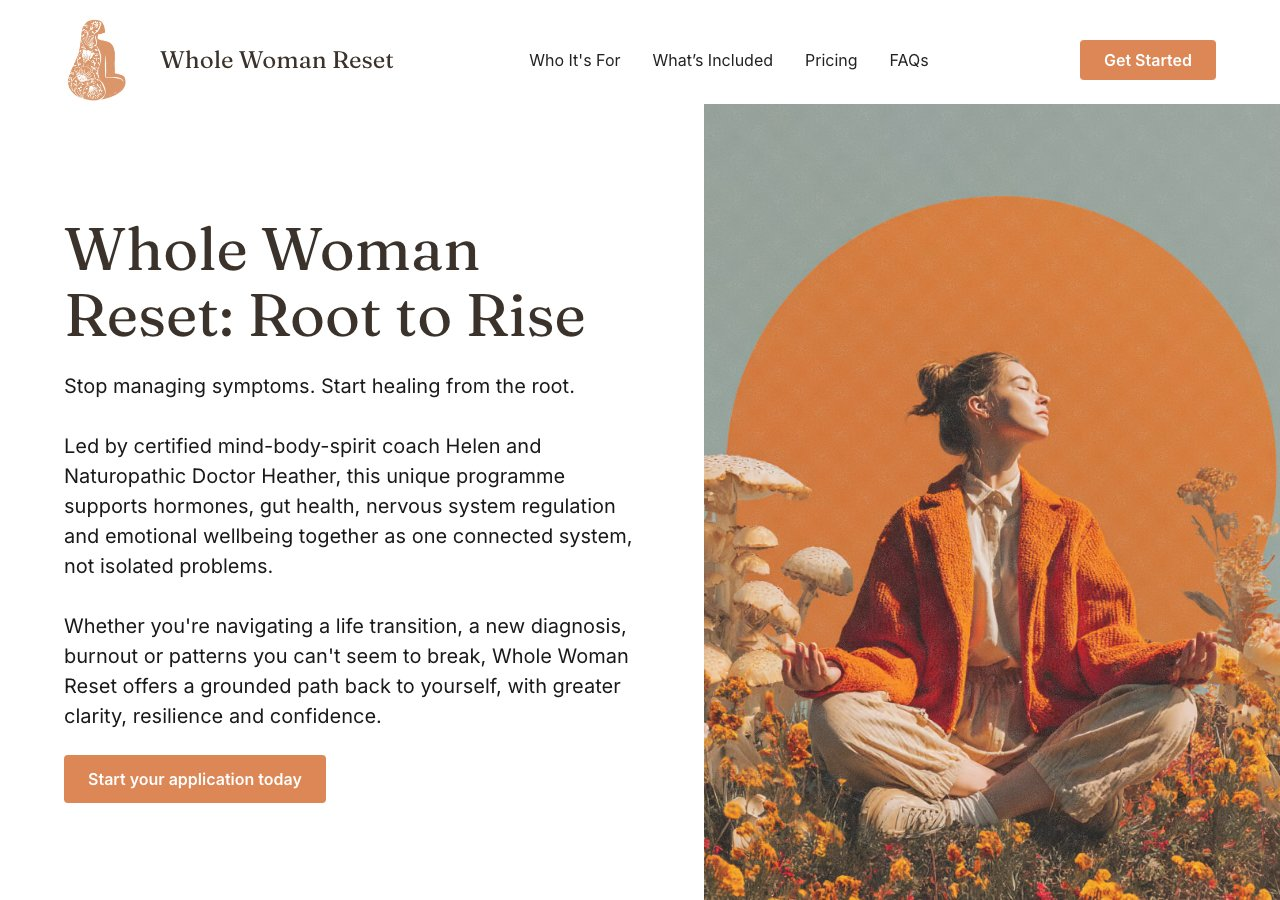
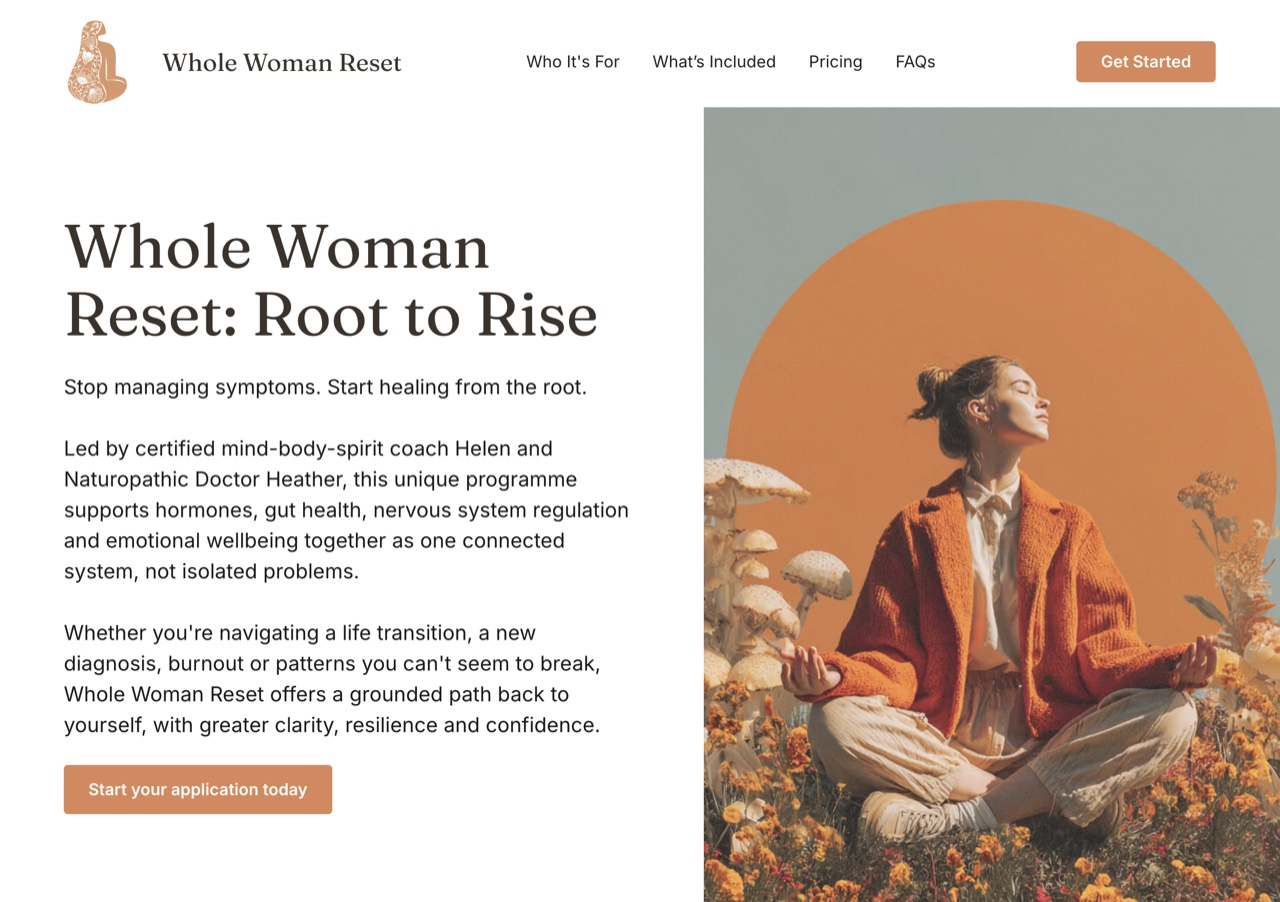
Simplify portfolio to 2 case studies + add handoff doc
- work.html: remove fictional Roots Wellness case study
- Village Naturopathy: real screenshot + updated copy (virtual women's health, Ontario + UK)
- Whole Woman Reset: re-compressed screenshot from full desktop view (268KB)
- Add goodwebsites_handoff_2026-07-09.md: session context, backlog, Summerhill rebuild plan

diff --git a/work.html b/work.html
@@ -86,63 +86,27 @@
           <!-- 1: Village Naturopathy -->
           <article class="case-study reveal">
             <div class="case-study-media">
-              <div class="case-study-placeholder" style="background:var(--surface-sun)">
-                <span style="font-size:var(--text-hero-md)">Village<br>Naturopathy</span>
-                <span class="badge badge--ink">Screenshot coming</span>
-              </div>
-            </div>
-            <div class="case-study-body">
-              <div style="display:flex;gap:var(--space-2);flex-wrap:wrap">
-                <span class="badge badge--ink">Authority Site</span>
-                <span class="badge badge--grass">50+ pages</span>
-              </div>
-              <h2 class="case-study-title">Village Naturopathy</h2>
-              <p class="case-study-desc">Dr. Sarah Chen came to us with a generic Squarespace site that wasn't ranking for anything. We rebuilt from scratch — 50 pages, condition landing pages for every service, embedded Jane booking, and a content strategy built for AI citation.</p>
-              <div class="case-study-stats">
-                <div class="case-study-stat">
-                  <span class="case-study-stat-value">3</span>
-                  <span class="case-study-stat-label">New patients<br>week one</span>
-                </div>
-                <div class="case-study-stat">
-                  <span class="case-study-stat-value">#1</span>
-                  <span class="case-study-stat-label">"Naturopath<br>Toronto" Google</span>
-                </div>
-                <div class="case-study-stat">
-                  <span class="case-study-stat-value">98</span>
-                  <span class="case-study-stat-label">PageSpeed<br>score</span>
-                </div>
-              </div>
-              <a class="btn btn--primary" href="book.html">Build something like this <span class="arrow">&rarr;</span></a>
-            </div>
-          </article>
-
-          <!-- 2: Roots Wellness -->
-          <article class="case-study case-study--reversed reveal">
-            <div class="case-study-media">
-              <div class="case-study-placeholder" style="background:rgba(255,90,54,0.12)">
-                <span style="font-size:var(--text-hero-md)">Roots<br>Wellness</span>
-                <span class="badge badge--coral">Screenshot coming</span>
-              </div>
+              <img src="assets/images/screenshot-village.jpg" alt="Village Naturopathy website — practice site design by Good Websites" loading="lazy" style="width:100%;height:100%;object-fit:cover;border-radius:var(--radius-md)">
             </div>
             <div class="case-study-body">
               <div style="display:flex;gap:var(--space-2);flex-wrap:wrap">
                 <span class="badge badge--ink">Practice Site</span>
-                <span class="badge badge--sky">7 pages</span>
+                <span class="badge badge--coral">Design + Dev</span>
               </div>
-              <h2 class="case-study-title">Roots Wellness</h2>
-              <p class="case-study-desc">Dr. James Park had been in practice for three years with a schedule that was never full. We built a 7-page practice site focused on local SEO, set up his Google Business profile, and wired Jane App directly into the booking flow.</p>
+              <h2 class="case-study-title">Village Naturopathy</h2>
+              <p class="case-study-desc">A virtual women's health clinic serving Ontario and the UK needed a site that matched the quality of their care. We built a custom practice site from scratch — sharp brand expression, clear service pages, and a booking flow built around the way patients actually decide.</p>
               <div class="case-study-stats">
                 <div class="case-study-stat">
-                  <span class="case-study-stat-value">Full</span>
-                  <span class="case-study-stat-label">Schedule in<br>3 months</span>
+                  <span class="case-study-stat-value">Custom</span>
+                  <span class="case-study-stat-label">No templates,<br>no page builders</span>
                 </div>
                 <div class="case-study-stat">
-                  <span class="case-study-stat-value">4×</span>
-                  <span class="case-study-stat-label">Increase in<br>online bookings</span>
-                </div>
-                <div class="case-study-stat">
-                  <span class="case-study-stat-value">96</span>
+                  <span class="case-study-stat-value">95+</span>
                   <span class="case-study-stat-label">PageSpeed<br>score</span>
+                </div>
+                <div class="case-study-stat">
+                  <span class="case-study-stat-value">Virtual</span>
+                  <span class="case-study-stat-label">Ontario<br>+ UK</span>
                 </div>
               </div>
               <a class="btn btn--primary" href="book.html">Build something like this <span class="arrow">&rarr;</span></a>
@@ -175,10 +139,7 @@
                   <span class="case-study-stat-label">wholewomanreset<br>.co.uk</span>
                 </div>
               </div>
-              <div style="display:flex;gap:var(--space-3);flex-wrap:wrap;align-items:center">
-                <a class="btn btn--primary" href="book.html">Build something like this <span class="arrow">&rarr;</span></a>
-                <a class="btn btn--ghost" href="https://wholewomanreset.co.uk/" target="_blank" rel="noopener">Visit site <span class="arrow">&rarr;</span></a>
-              </div>
+              <a class="btn btn--primary" href="book.html">Build something like this <span class="arrow">&rarr;</span></a>
             </div>
           </article>
 

diff --git a/goodwebsites_handoff_2026-07-09.md b/goodwebsites_handoff_2026-07-09.md
@@ -1,0 +1,129 @@
+# Good Websites — Handoff Doc
+**Date:** 2026-07-09  
+**Project:** goodwebsites.ca  
+**Repo:** github.com/b9will/goodwebsitesca (private)  
+**Live:** Cloudflare Pages, auto-deploys from `main` branch  
+**Local dev:** `python3 -m http.server 8812` → http://localhost:8812/
+
+---
+
+## What's Live and Shipped
+
+| Page | Status | Notes |
+|------|--------|-------|
+| index.html | ✅ Live | Hero doodles fixed (hero-balloon.webp, hero-flower.webp in assets/images/) |
+| work.html | ✅ Live | 2 case studies: Village Naturopathy + Whole Woman Reset |
+| about.html | ✅ Live | Will's AVIF headshot (Clear Space), Rylan's photo, emoji polaroids, rounded corners |
+| pricing.html | ✅ Live | 3 tiers |
+| book.html | ✅ Live | Booking flow |
+| /oand/ | ✅ Live | 13-slide partner deck for OAND, noindex, Good Websites branding, 15%/+15% discount |
+| blog/ | ✅ Live | Exists |
+| signup.html | ✅ Live | Stripe Buy Buttons (not yet verified per plan) |
+
+### Cloudflare Pages config
+- Build command: (blank)
+- Output dir: `/`
+- Functions dir: `functions/` (auto-detected)
+- Secrets set in Cloudflare dashboard: `ANTHROPIC_API_KEY`, `RESEND_API_KEY`
+
+---
+
+## work.html — Current State
+
+Two case studies, both using real screenshots, no external "Visit site" links:
+
+1. **Village Naturopathy** — spec/design concept, virtual women's health clinic (Ontario + UK)
+   - Screenshot: `assets/images/screenshot-village.jpg` (216KB)
+   - Source PNG (dropped by Will): `village_hero.png` in project root — safe to delete
+
+2. **Whole Woman Reset** — real client (UK women's wellness programme)
+   - Screenshot: `assets/images/screenshot-wholewomanreset.jpg` (268KB, re-compressed from wholewomanreset.png)
+   - Source PNG (dropped by Will): `wholewomanreset.png` in project root — safe to delete
+   - Live site: wholewomanreset.co.uk (not linked from portfolio)
+
+### Dropped screenshots NOT yet used (in project root — safe to delete or archive)
+- `margotscreenshot.png` — Dr. Margot ND (doctormargotnd.com), hormone ND, Junction/Bloor West Village
+- `michellehero.png` — Michelle McKee ND (drmichellemckeend.com), Bracebridge
+- `vistaswellness.png` — Vistas Wellness, therapy practice, Toronto/Ottawa (client modified after delivery)
+
+These were considered for an "Experience" section but deferred. They're B9 Digital past work, not yet attributed on the Good Websites portfolio.
+
+---
+
+## Next Big Project: Summerhill Naturopathic Rebuild
+
+**Goal:** Rebuild summerhillnaturopathic.com using the ditto.sites clone as source content. Modernize the design with Good Websites standards. Makes a strong "before/after" case study for the work.html growth section.
+
+### Source material (already cloned)
+```
+~/Downloads/ditto.site/runs/summerhillnaturopathic.com/20260707-145834/
+  source/screenshots/
+    375.png   (731 KB)  — mobile view of current site
+    768.png   (894 KB)  — tablet
+    1280.png  (1.5 MB)  — desktop (use as "before" screenshot)
+    1920.png  (1.7 MB)  — wide desktop
+  source/assets-store/  — cloned images
+  generated/app/public/assets/cloned/images/  — processed images
+```
+
+### How to start (next session)
+1. `ls ~/Downloads/ditto.site/runs/summerhillnaturopathic.com/20260707-145834/source/` to explore content
+2. Look at the generated HTML in `generated/` for scraped text/structure
+3. New project dir: `~/Good Website Builds/SummerhillNaturopathic/`
+4. Copy `css/tokens.css` from GoodWebsitesca as design foundation
+5. Build page by page: home → services → about → contact
+6. Before/after on work.html once live (could be Cloudflare Pages subdomain or client's own domain)
+
+### Design direction
+- Keep their brand (teal/nature palette, naturopathic identity)
+- Upgrade: custom fonts (Excon/Ranade or similar), proper section hierarchy, Jane App booking
+- PageSpeed target: 95+
+- Mobile-first, semantic HTML
+
+---
+
+## Remaining Backlog (not yet started)
+
+### Intake automation (Phase 1 — welcome + wizard)
+- Replace Stripe Buy Buttons on `signup.html` with Payment Links (redirect to `/welcome.html?session_id=...`)
+- New `welcome.html` — "You're in. Here's what happens next."
+- New `/intake/` wizard — 10 sections, localStorage autosave → POST to `functions/api/intake/complete.js` → email to [email redacted]
+- Pattern already exists: see `functions/api/chat.js` for the email/Resend pattern
+
+### Stripe
+- Create `OAND15` coupon (15% off recurring) in Stripe dashboard
+- Enable promo codes on Payment Links (not Buy Buttons — requires Payment Links)
+- Map which Stripe link = which plan (TODO comments still in signup.html)
+
+### Resend domain verification
+- Currently sandbox only — can only send to [email redacted]
+- Verify goodwebsites.ca domain in Resend dashboard to unlock client-facing email
+- Required before intake wizard can email clients their confirmation
+
+### CONO compliance
+- Review current CONO advertising rules for testimonials before adding patient-results copy
+
+---
+
+## Design System Quick Reference
+
+**Fonts:** Excon (display/headings), Ranade (body) — from api.fontshare.com  
+**Local font files:** `assets/fonts/Excon-Medium.woff2`, `Ranade-Light.woff2`  
+**Tokens:** `css/tokens.css` — `--paper-*`, `--ink-*`, `--sun-*`, `--shadow-soft`, `--radius-*`, `--space-*`  
+**Components:** `css/components.css` — `.btn`, `.badge`, `.card`, `.case-study`, `.reveal`  
+**AI chat widget:** `functions/api/chat.js` (Cloudflare Pages Function, Anthropic API, SSE)
+
+---
+
+## Security Notes (never commit)
+- `ANTHROPIC_API_KEY` — set in Cloudflare Pages env vars
+- `RESEND_API_KEY` — set in Cloudflare Pages env vars
+- `.wrangler/` is gitignored
+- Repo must stay private: b9will/goodwebsitesca
+
+---
+
+## Team
+- Will Robinson — strategy, design direction, client relationships
+- Rylan Shaver — development partner
+- Claude Code — build assistant (this session: claude-sonnet-4-6)